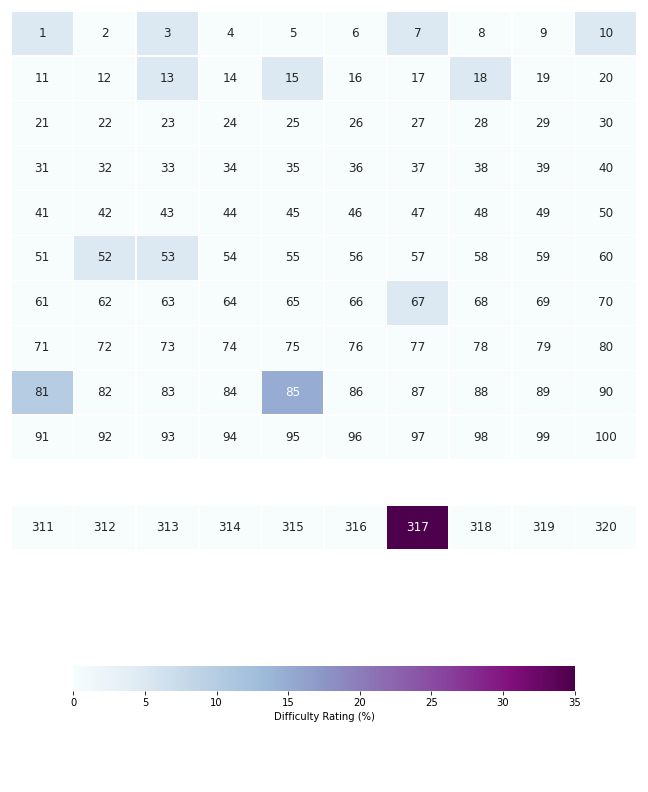
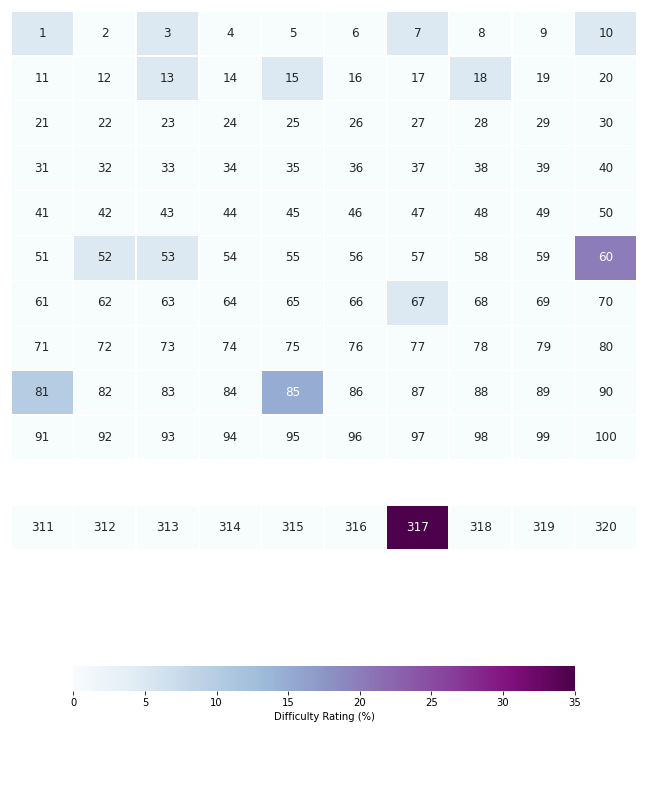
Update heatmap

Changed region(s): [[0.8642, 0.2727, 0.9877, 0.3636]]

diff --git a/make_progress_hmap.py b/make_progress_hmap.py
@@ -79,13 +79,28 @@ if __name__ == "__main__":
                  '13':  5,
                  '15':  5,
                  '18':  5,
+                #  '42':  5, # Up next
+                #  '44':  5, # Up next
+                #  '45':  5, # Up next
                  '52':  5,
                  '53':  5,
-                #  '60': 20, # Working
+                 '60': 20, 
                  '67':  5,
                  '81': 10,
                  '85': 15,
                 #  '96': 25 # Finish write up
+                #  '144':  # Interesting
+                #  '226':  # Interesting
+                #  '309':  # Up next
+                #  '349':  # Interesting
+                #  '607':  # Interesting
                }
 
     main(progress)
+
+    # # Get number of problems solved and average difficulty
+    # problems_solved = len(progress.keys())
+    # avg_rating = sum(progress.values())/problems_solved
+    
+    # print("# Problems: ",problems_solved)
+    # print("Avg Rating: ",avg_rating)

diff --git a/README.md b/README.md
@@ -12,4 +12,4 @@ Below is a grid I created to illustrate which problems I have solved and their l
 
 The highest difficulty solved is **35%**.
 
-Accounting for all **12** problems I have solved, the average difficulty is **6.25%**
+Accounting for all **13** problems I have solved, the average difficulty is **7.31%**
